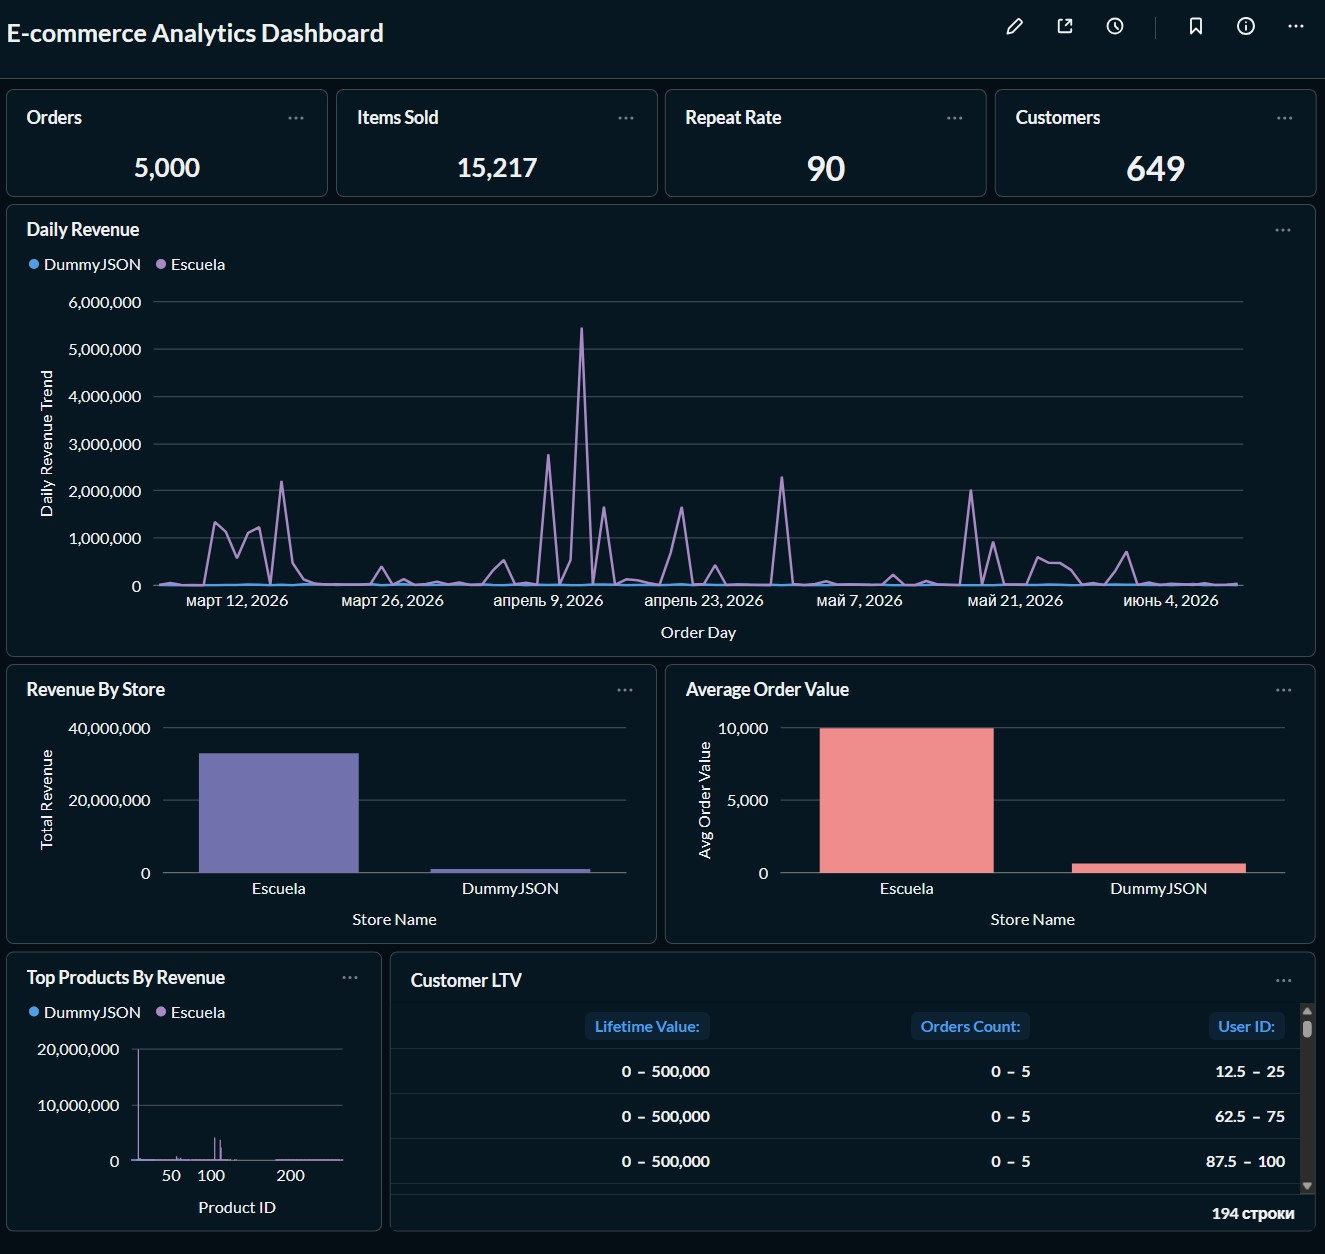
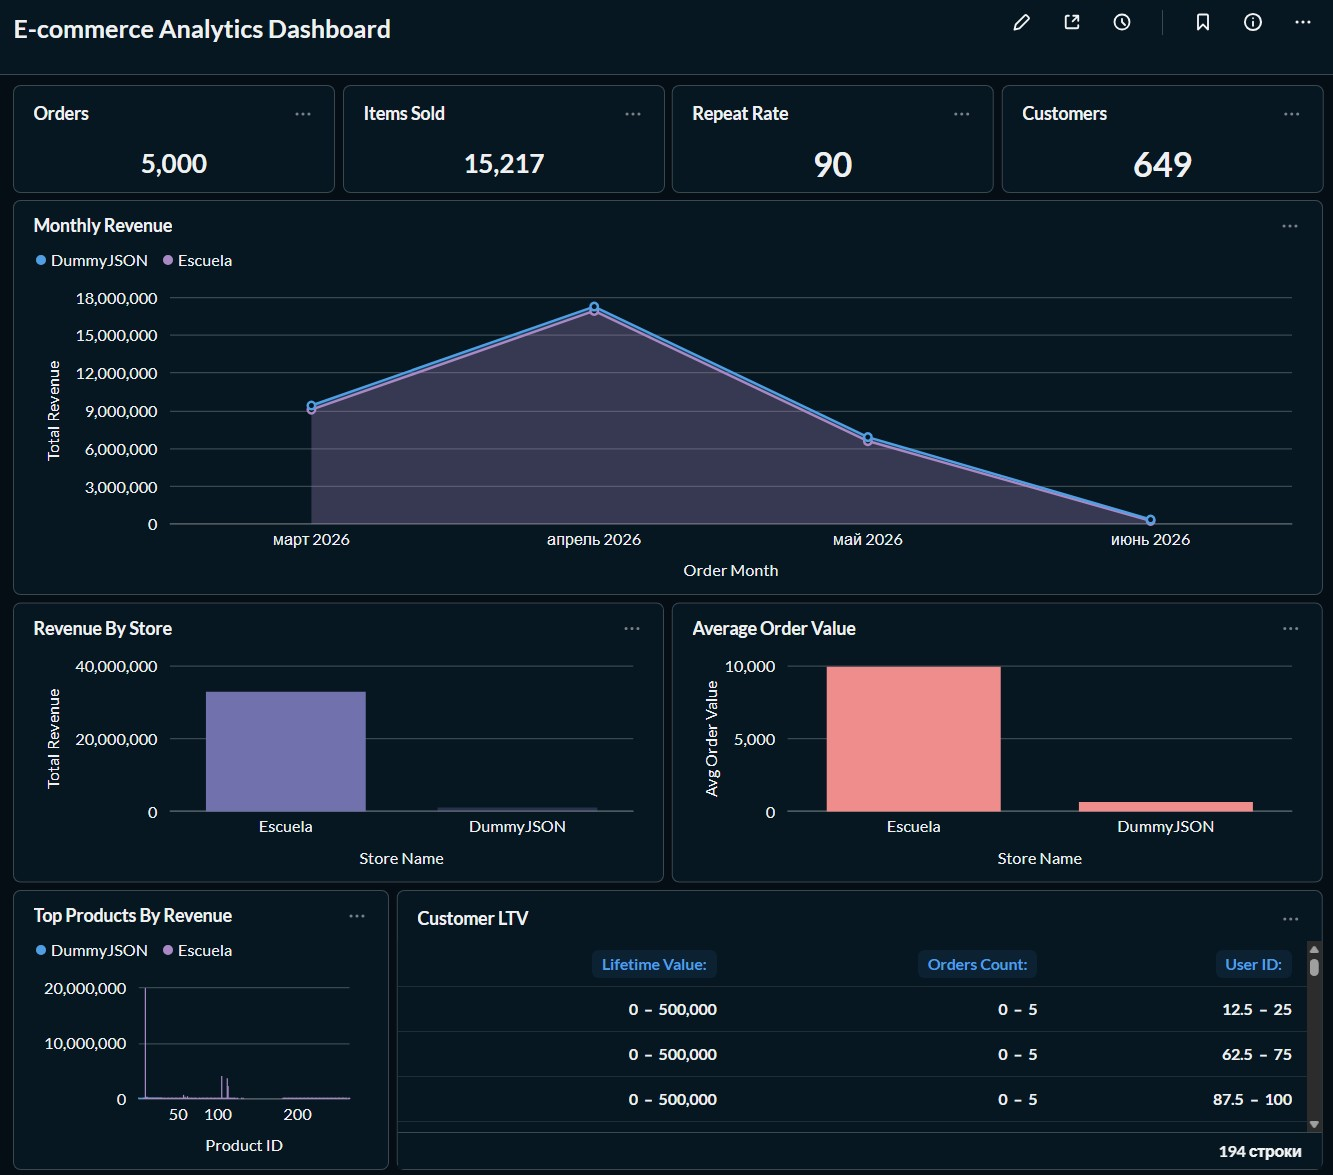
feat: add gold_monthly_revenue dbt model, update dashboard

diff --git a/README.md b/README.md
@@ -198,7 +198,7 @@ dbt test --profiles-dir /usr/app/dbt
 ## Data Sources
 
 - [DummyJSON API](https://dummyjson.com) — products, categories
-- [Escuela API](https://api.escuelajs.co) — products, categories, users
+- [Escuela API](https://api.escuelajs.co/api/v1/products) — products, categories, users
 
 ---
 
@@ -210,3 +210,22 @@ dbt test --profiles-dir /usr/app/dbt
 | Total Items Sold | 15,217 |
 | Unique Customers | 649 |
 | Repeat Rate | 90% |
+
+## Data Insights
+
+Two stores with fundamentally different business profiles:
+
+| Metric | Escuela | DummyJSON |
+|---|---|---|
+| Total Revenue | ~$30M | ~$300K |
+| Avg Order Value | ~$10,000 | ~$700 |
+| Profile | Premium / B2B | Budget / Demo |
+
+Revenue peaks in April 2026 across both stores suggest 
+a seasonal or promotional pattern worth investigating.
+---
+## Author
+
+Ruslan Tuliei
+
+GitHub: https://github.com/offANTI